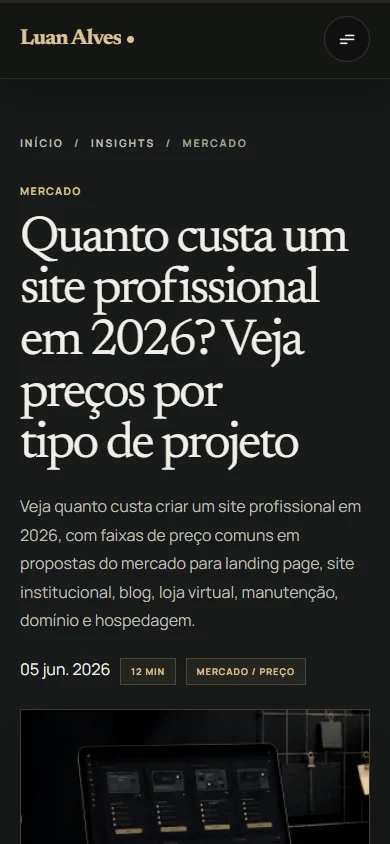
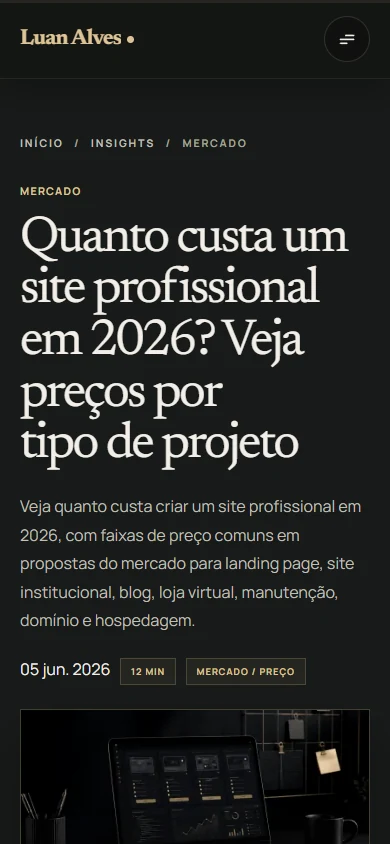
fix: preserve article artwork and correct performance image

diff --git a/src/data/insights.ts b/src/data/insights.ts
@@ -1776,9 +1776,9 @@ const performanceConversaoInsight: InsightPublishedPost = {
   slug: 'por-que-performance-site-afeta-conversao',
   tags: ['Performance', 'Conversão', 'SEO', 'Core Web Vitals', 'Mobile'],
   published: true,
-  heroImage: '/assets/insights/quanto-tempo-post.webp',
+  heroImage: '/assets/site-institucional-hero.webp',
   heroImageAlt:
-    'Mesa de trabalho com notebook e elementos de planejamento, representando velocidade e performance de um site profissional.',
+    'Site da Urbem apresentado em notebook e celular, com a mesma identidade e conteúdo adaptados a cada tela.',
   author: {
     name: 'Luan Alves',
     role: 'Desenvolvedor web freelancer',

diff --git a/docs/reviews/ui-polish/README.md b/docs/reviews/ui-polish/README.md
@@ -29,4 +29,4 @@ All remaining route captures are in [screenshots](screenshots/).
 
 Validation: production build and post-build asset patch pass; 140 tests pass. All content routes have no horizontal page overflow or broken images at the screenshot widths. Checks at 320, 768 and 1024 pixels found no off-screen headings or primary controls. Mobile menu, Escape focus restoration, viewport resize, Barba navigation and keyboard access to the final article contents link pass.
 
-Council results are recorded in the pull request description. Round 1 scored 8.3, 7.5 and 8.1. A Sol-only second pass scored 9.0. A fresh third round assesses this set with all three enabled reviewers. Gemini is excluded at the user's request.
+Council results are recorded in the pull request description. Round 1 scored 8.3, 7.5 and 8.1. A Sol-only second pass scored 9.0. Sol's third pass scored 8.8 after inspecting all routes and finding two article-image defects. This set includes the fixes: full article-image proportions and a real project image for the performance article. Gemini is excluded at the user's request.
